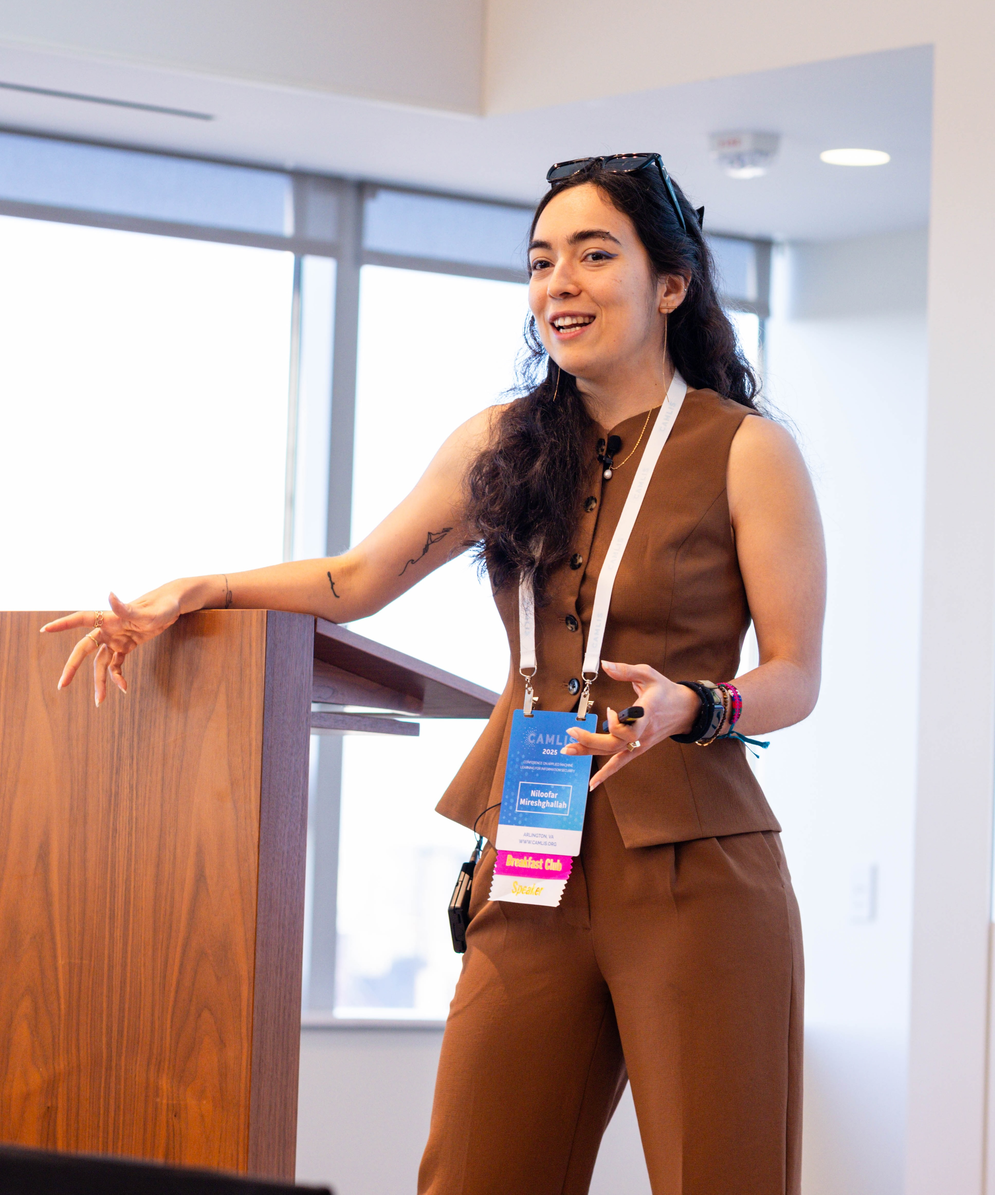
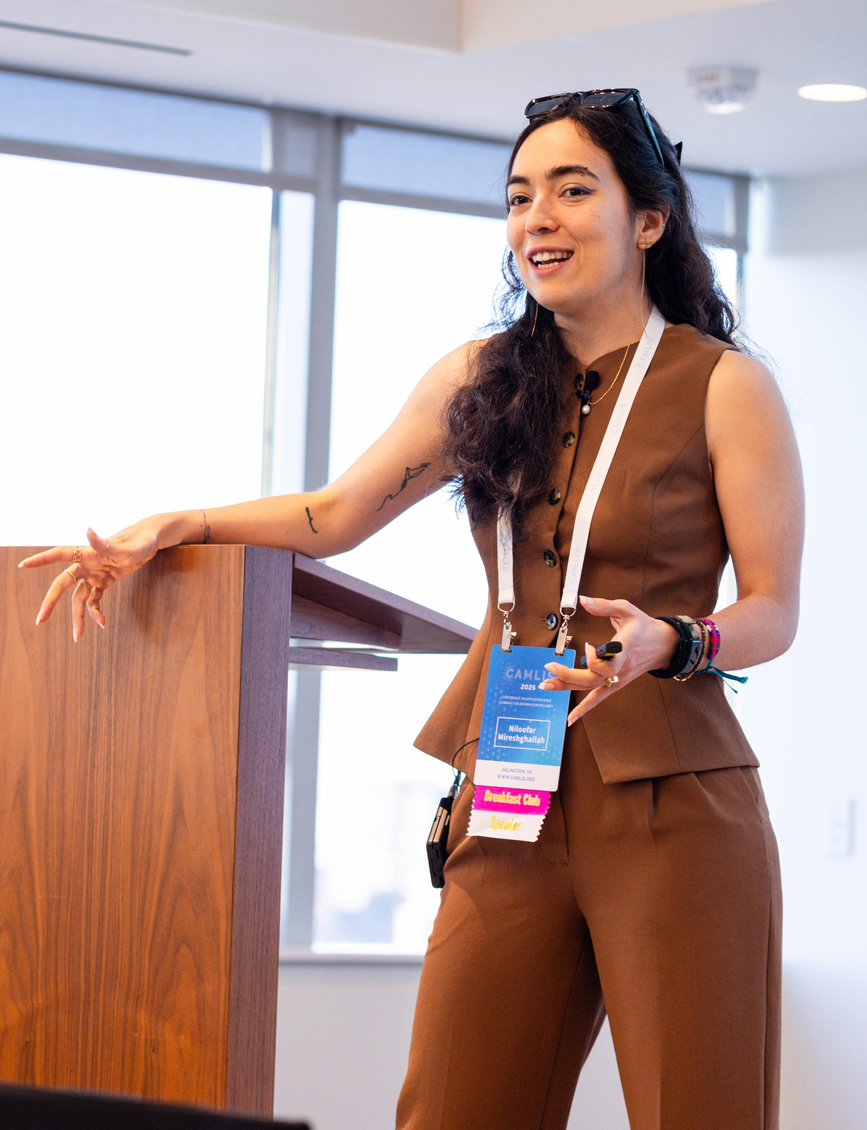
update

diff --git a/index.html b/index.html
@@ -174,7 +174,7 @@ a.custom-text-color{color:var(--link-color);}
         <div class="content-box">
             <div class="mb-6">
                 <div class="flex flex-col md:flex-row mb-2">
-               <img src="pics/pic4.jpg" alt="Niloofar Mireshghallah" class="w-80 h-auto object-cover rounded-lg mb-8 md:mb-0 md:mr-6" style="max-height: 280px; object-fit: cover; object-position: center top;">
+               <img src="pics/pic4.jpg" alt="Niloofar Mireshghallah" class="w-90 h-auto object-cover rounded-lg mb-8 md:mb-0 md:mr-6" style="max-height: 350px; object-fit: cover; object-position: center top;">
                <div class="about-me flex-grow">
                 <!-- current + future roles -->
                 <p class="mb-6 text-lg">
